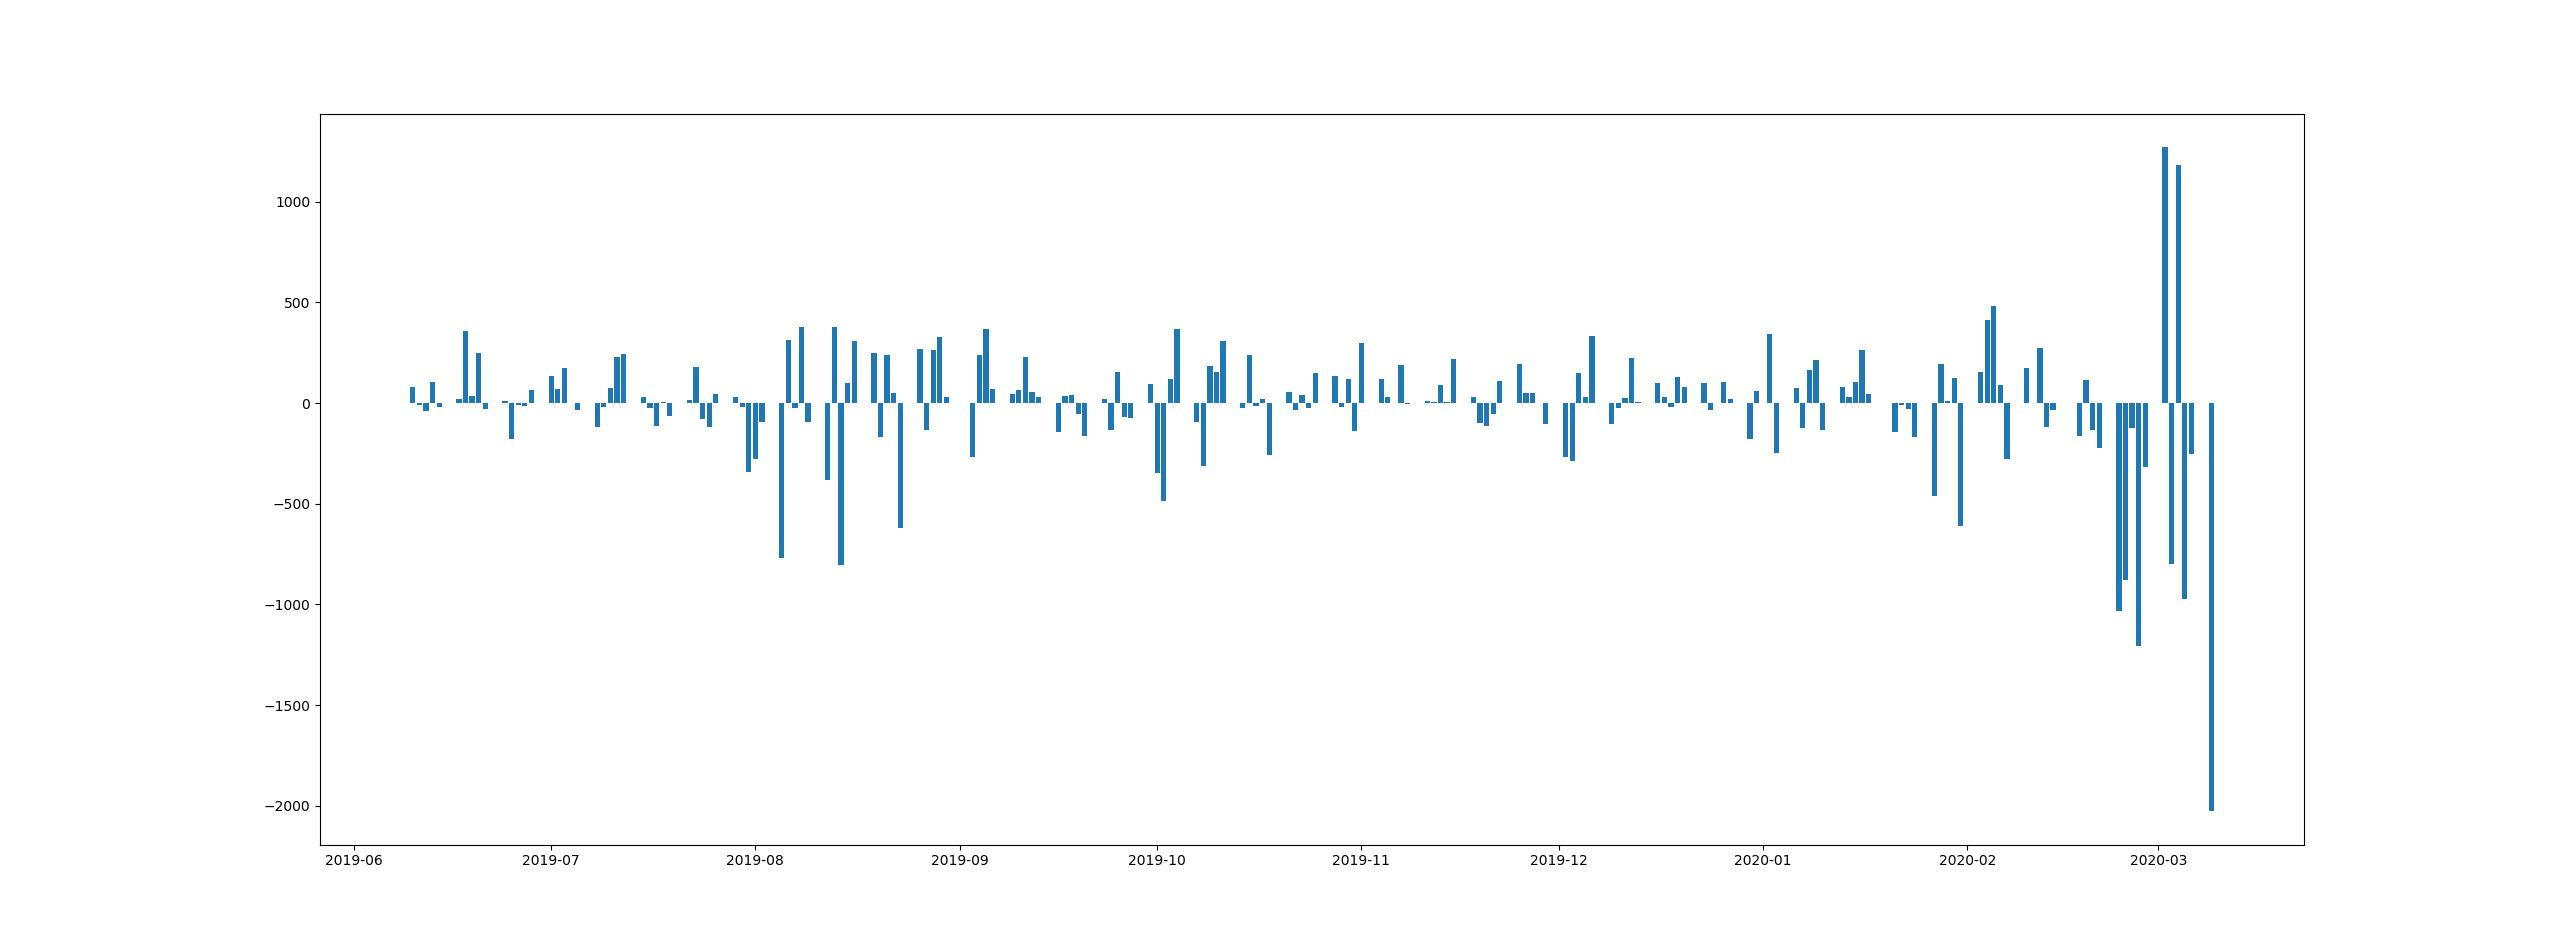
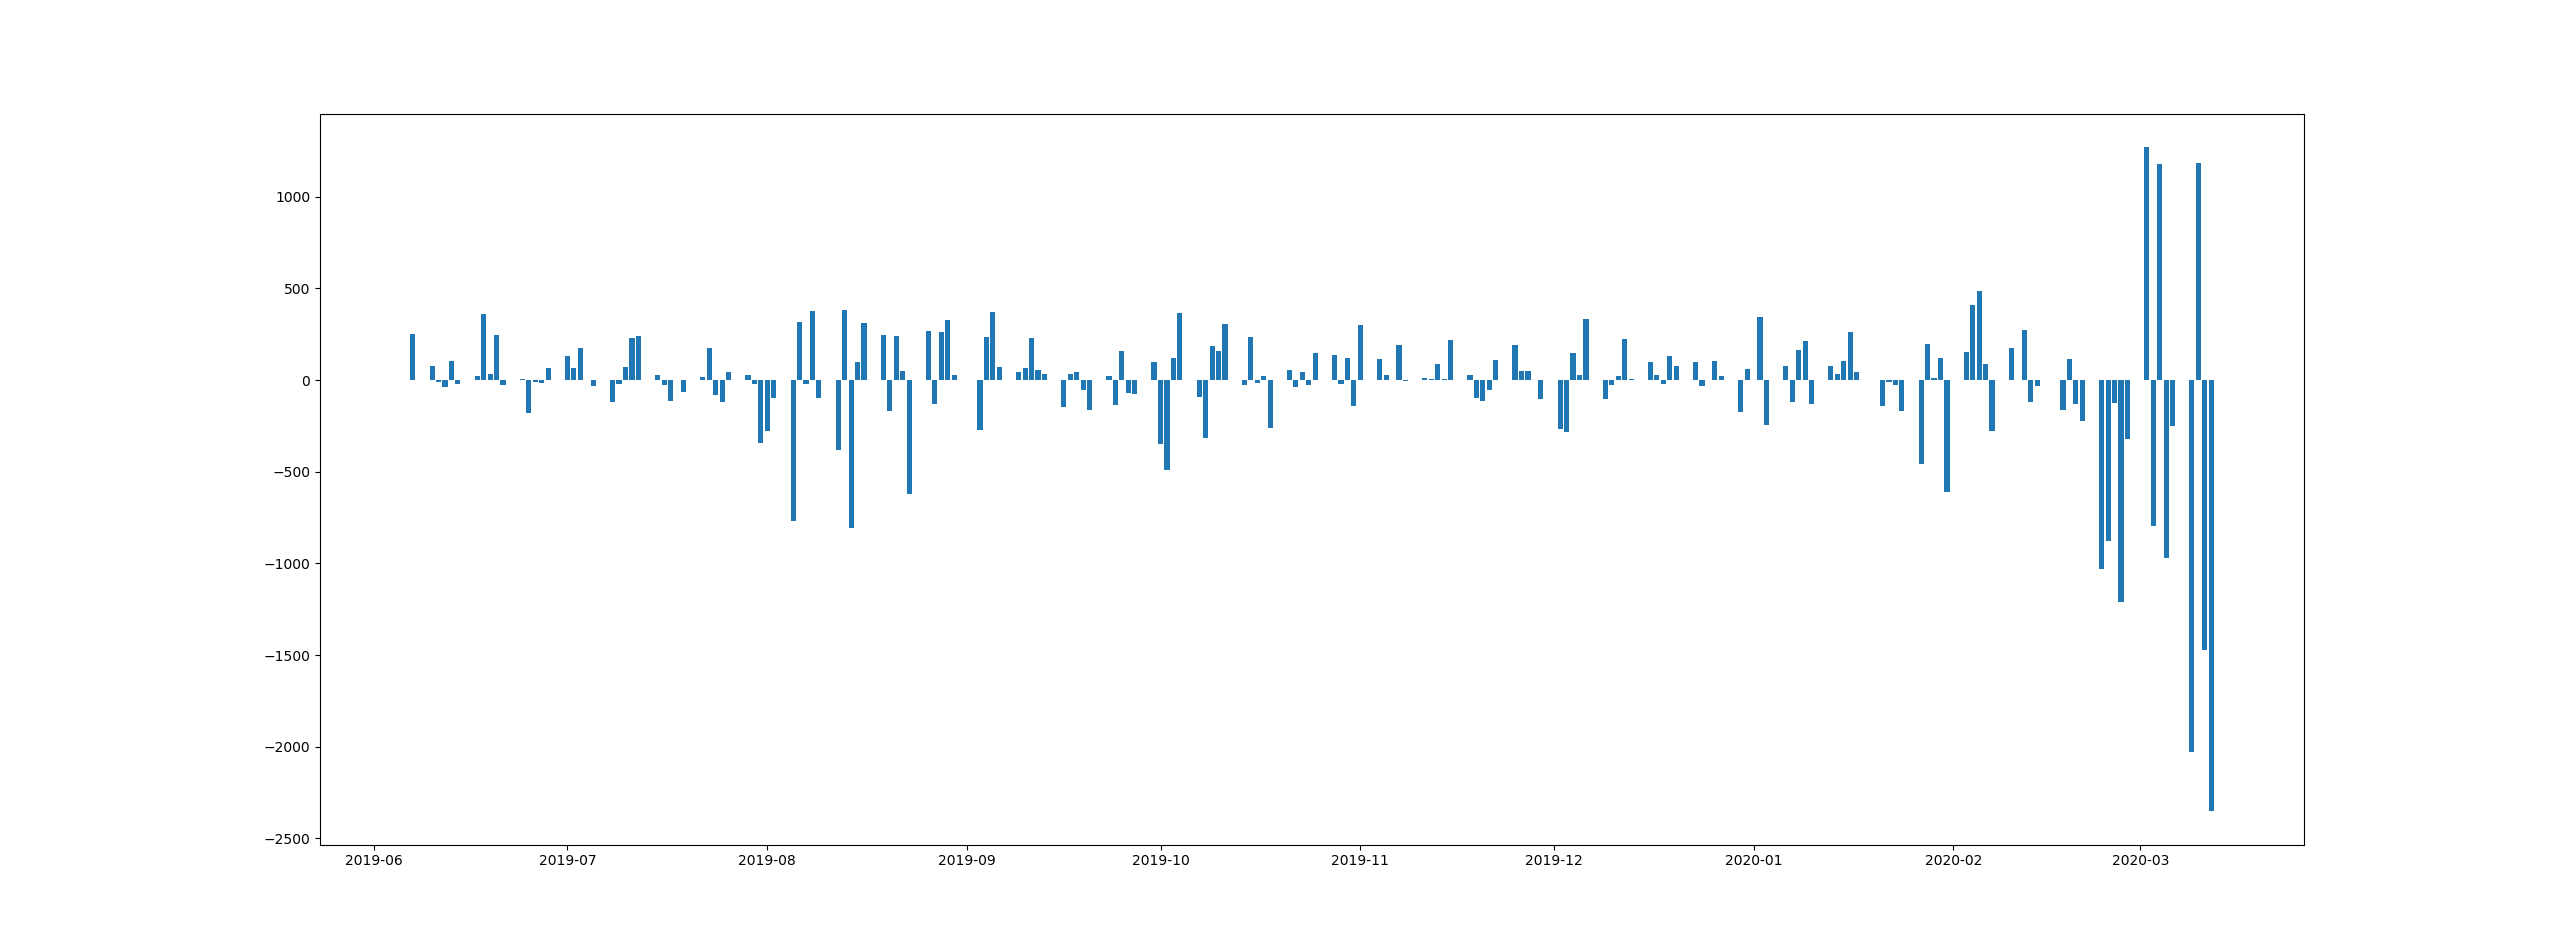
update

diff --git a/Script.py b/Script.py
@@ -3,6 +3,8 @@
 # https://en.wikipedia.org/wiki/Dow_Jones_Industrial_Average
 # https://www.investopedia.com/investing/what-moves-the-djia/
 
+# include percentages
+# go back further but filter out the bad data... why is it bad???
  
 import alpaca_trade_api as tradeapi
 import matplotlib.pyplot as plt
@@ -42,7 +44,7 @@ for index, symbol in enumerate(symbols):
 companyList = symbols
 
 api = tradeapi.REST()
-barset = api.get_barset(companyList, 'day', 190, '2020-03-06')
+barset = api.get_barset(companyList, 'day', 194, '2020-03-06')
 
 # Retrieve needed data
 dFrameList = []
